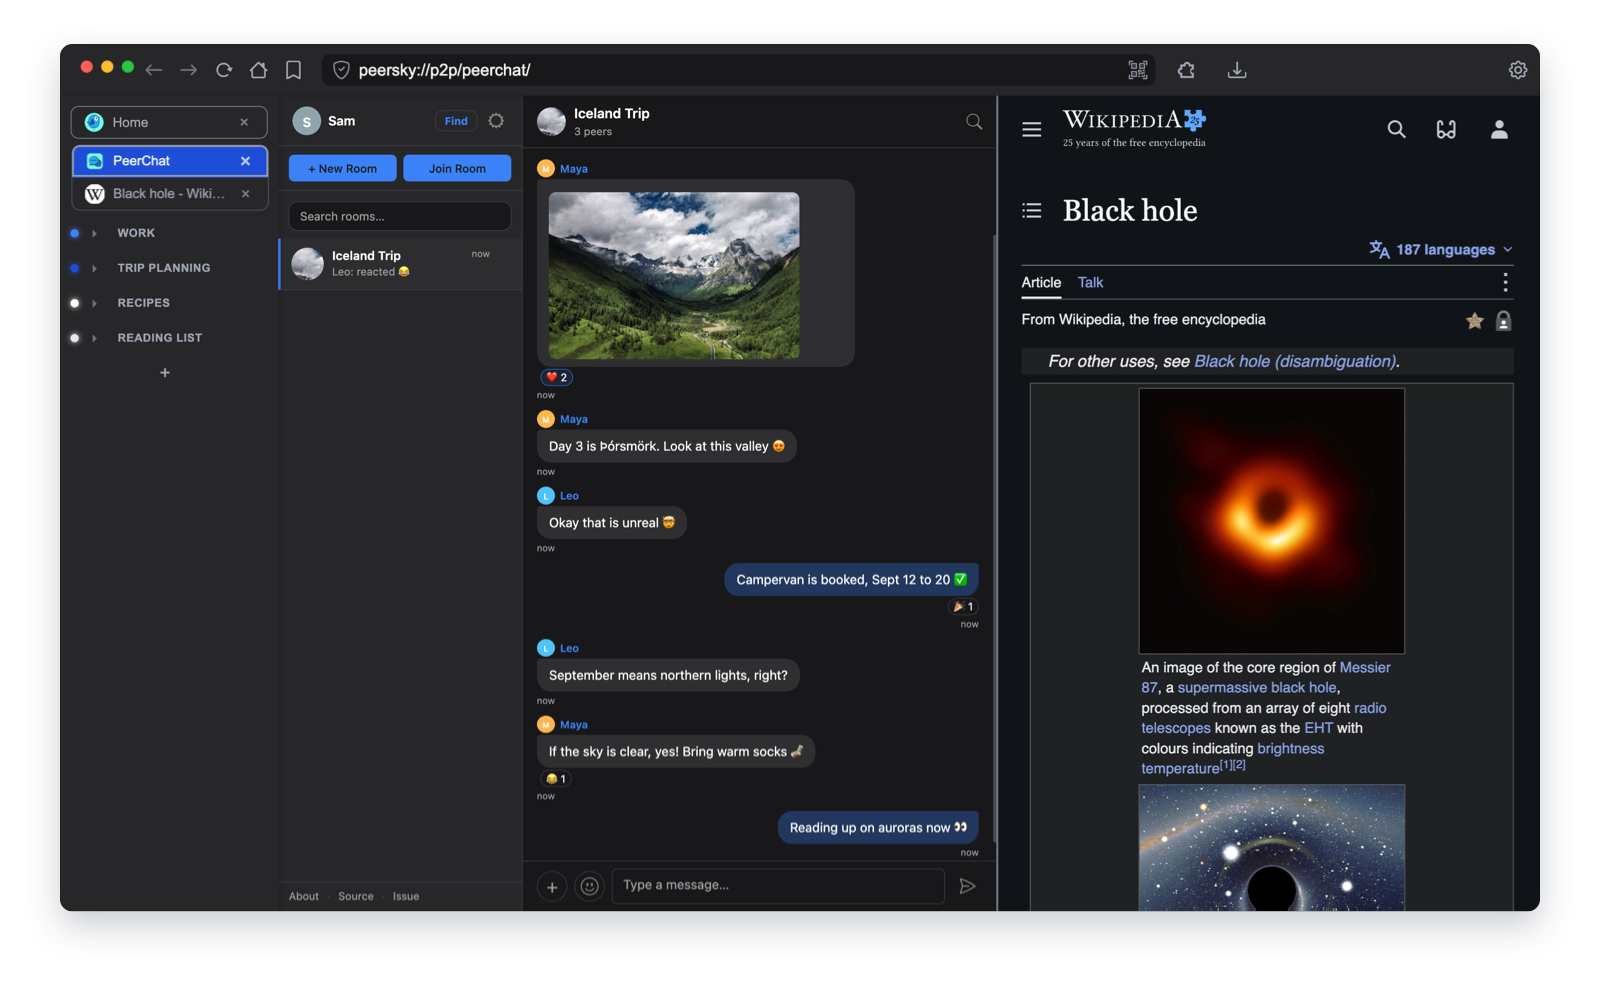
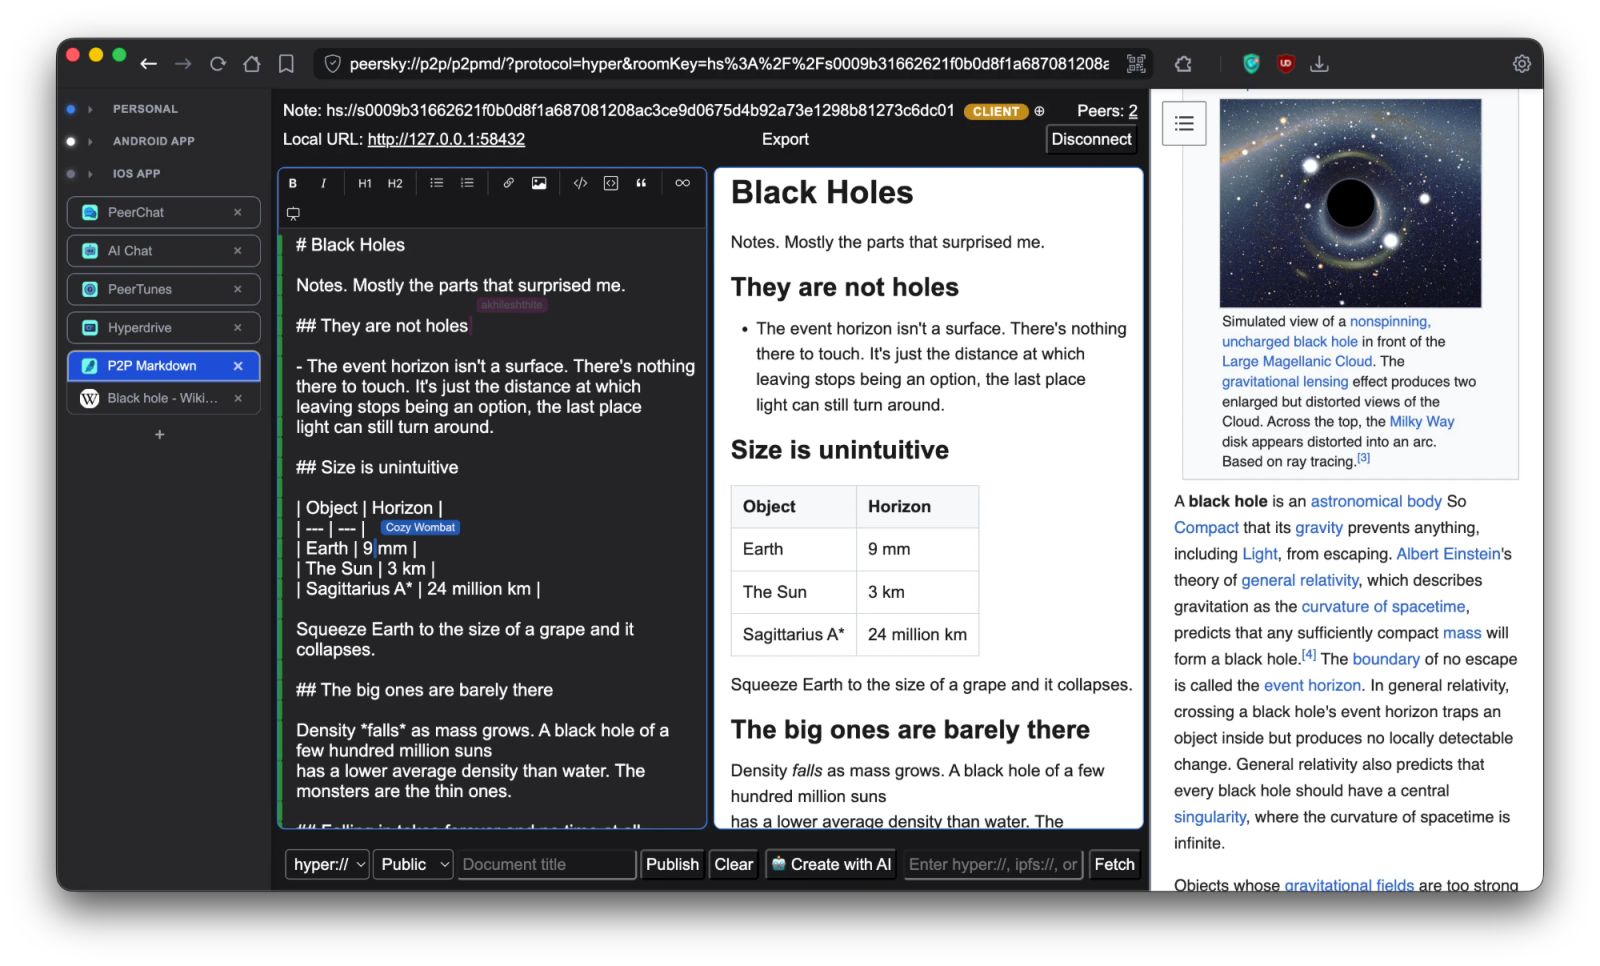
docs(readme): the screenshot shows a P2P Markdown note two people are writing together beside a Wikipedia article in split view

diff --git a/README.md b/README.md
@@ -12,7 +12,7 @@
     <a href="https://mastodon.social/@peersky"><img src="https://img.shields.io/mastodon/follow/113323887574214930" alt="Mastodon Follow"></a>
     <a href="https://deepwiki.com/p2plabsxyz/peersky-browser"><img src="https://img.shields.io/badge/Ask-DeepWiki-blue.svg" alt="Ask DeepWiki"></a>
     <a href="https://standardjs.com"><img src="https://img.shields.io/badge/code_style-standard-brightgreen.svg" alt="JavaScript Style Guide"></a>
-    <img src="/demo.png" width="800" alt="PeerSky Browser in the dark theme, with vertical tabs, collapsed tab groups, and a PeerChat group chat beside a Wikipedia article in split view">
+    <img src="/demo.png" width="800" alt="PeerSky Browser in the dark theme, with vertical tabs, tab groups, and a P2P Markdown note two people are writing together beside a Wikipedia article in split view">
 </div>
 
 💻 [Download](https://peersky.p2plabs.xyz/) 📜 [Docs](./docs/) 🔒 [Privacy](./PRIVACY.md)
